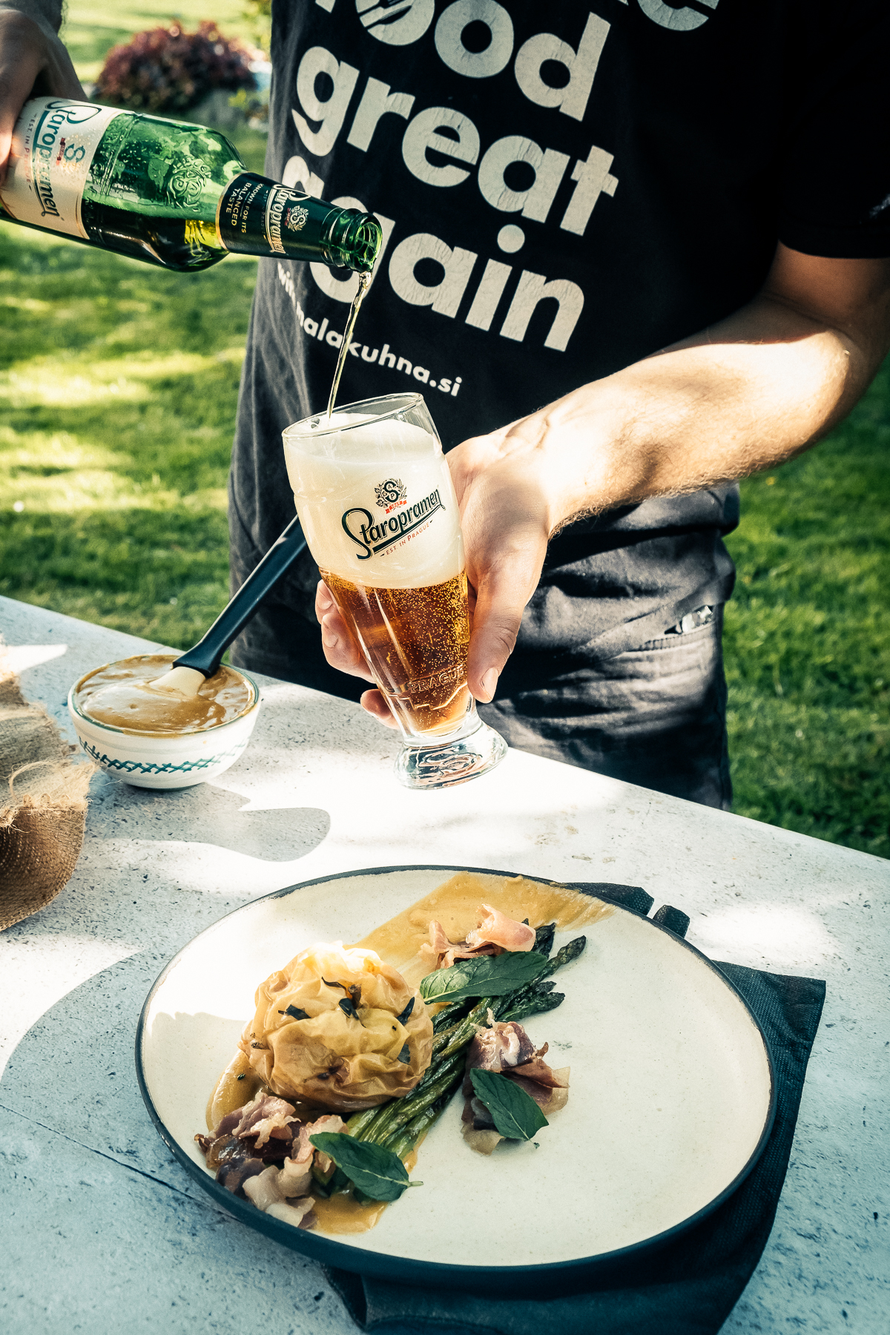
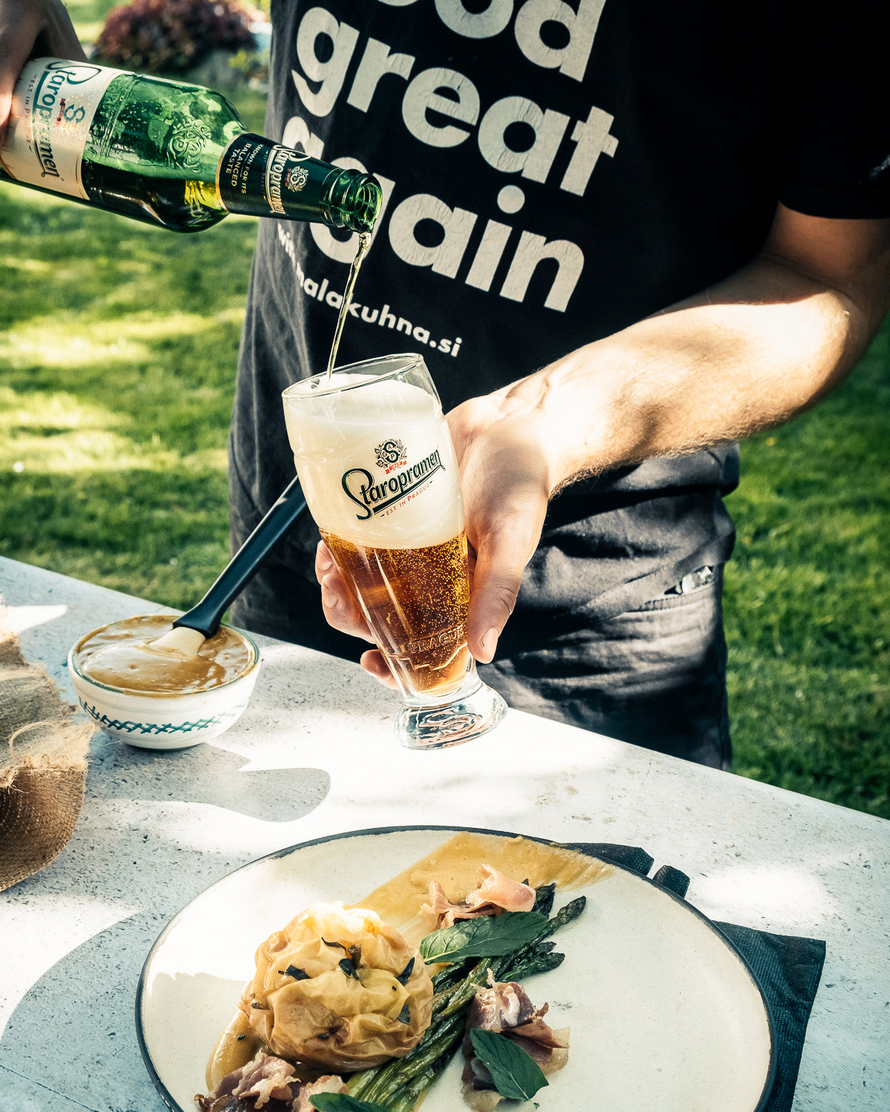
projekti thumbnaili

diff --git a/index.html b/index.html
@@ -366,24 +366,21 @@
                     <div class="item-folio">
                             
                         <div class="item-folio__thumb">
-                            <a href="images/portfolio/gallery/g-shutterbug.jpg" class="thumb-link" title="Shutterbug" data-size="1050x700">
-                                <img src="images/portfolio/lady-shutterbug.jpg" 
-                                     srcset="images/portfolio/lady-shutterbug.jpg 1x, images/portfolio/lady-shutterbug@2x.jpg 2x" alt="">
+                            <a href="images/portfolio/gallery/oster-1.jpg" class="thumb-link" title="Oster rob" data-size="1050x700">
+                                <img src="images/portfolio/oster-rob.jpg" 
+                                     srcset="images/portfolio/oster-rob.jpg 1x, images/portfolio/oster-rob@2x.jpg 2x"S alt="">
                             </a>
                         </div>
 
                         <div class="item-folio__text">
                             <h3 class="item-folio__title">
-                                Shutterbug
+                                Oster Rob / Sharpedge
                             </h3>
                             <p class="item-folio__cat">
-                                Branding
+                                Produktna fotografija, unboxing video, oglasni video
                             </p>
                         </div>
 
-                        <a href="https://www.behance.net/" class="item-folio__project-link" title="Project link">
-                            <i class="icon-link"></i>
-                        </a>
 
                         <div class="item-folio__caption">
                             <p>Vero molestiae sed aut natus excepturi. Et tempora numquam. Temporibus iusto quo.Unde dolorem corrupti neque nisi.</p>
@@ -396,9 +393,9 @@
                     <div class="item-folio">
                             
                         <div class="item-folio__thumb">
-                            <a href="images/portfolio/gallery/g-woodcraft.jpg" class="thumb-link" title="Woodcraft" data-size="1050x700">
+                            <a href="images/portfolio/gallery/staropramen-1.jpg" class="thumb-link" title="Staropramen" data-size="1200x1800">
                                 <img src="images/portfolio/staropramen.jpg" 
-                                     srcset="images/portfolio/staropramen.jpg, images/portfolio/staropramen.jpg 2x" alt="">
+                                     srcset="images/portfolio/staropramen.jpg 1x, images/portfolio/staropramen@2x.jpg 2x" alt="">
                             </a>
                         </div>
 
@@ -411,9 +408,6 @@
                             </p>
                         </div>
 
-                        <a href="https://www.behance.net/" class="item-folio__project-link" title="Project link">
-                            <i class="icon-link"></i>
-                        </a>
 
                         <div class="item-folio__caption">
                             <p>Vero molestiae sed aut natus excepturi. Et tempora numquam. Temporibus iusto quo.Unde dolorem corrupti neque nisi.</p>
@@ -426,24 +420,20 @@
                     <div class="item-folio">
                             
                         <div class="item-folio__thumb">
-                            <a href="images/portfolio/gallery/g-beetle.jpg" class="thumb-link" title="The Beetle Car" data-size="1050x700">
-                                <img src="images/portfolio/the-beetle.jpg"
-                                     srcset="images/portfolio/the-beetle.jpg 1x, images/portfolio/the-beetle@2x.jpg 2x" alt="">
+                            <a href="https://youtu.be/YmPqp-8yoaM" class="thumb-link" title="Šunkarna Kodila" target="_blank" data-size="1920x1080">
+                                <img src="images/portfolio/kodila.jpg"
+                                     srcset="images/portfolio/kodila.jpg 1x, images/portfolio/kodila.jpg 2x" alt="">
                             </a>
                         </div>
 
                         <div class="item-folio__text">
                             <h3 class="item-folio__title">
-                                The Beetle
+                                Velika noč - Šunkarna Kodila
                             </h3>
                             <p class="item-folio__cat">
-                                Web Development
+                                Video produkcija
                             </p>
                         </div>
-
-                        <a href="https://www.behance.net/" class="item-folio__project-link" title="Project link">
-                            <i class="icon-link"></i>
-                        </a>
 
                         <div class="item-folio__caption">
                             <p>Vero molestiae sed aut natus excepturi. Et tempora numquam. Temporibus iusto quo.Unde dolorem corrupti neque nisi.</p>
@@ -456,24 +446,21 @@
                     <div class="item-folio">
                             
                         <div class="item-folio__thumb">
-                            <a href="images/portfolio/gallery/g-salad.jpg" class="thumb-link" title="Grow Green" data-size="1050x700">
-                                <img src="images/portfolio/salad.jpg" 
-                                     srcset="images/portfolio/salad.jpg 1x, images/portfolio/salad@2x.jpg 2x" alt="">
+                            <a href="images/portfolio/komel.jpg" class="thumb-link" title="Grow Green" data-size="1200x1200">
+                                <img src="images/portfolio/komel.jpg" 
+                                     srcset="images/portfolio/komel.jpg 1x, images/portfolio/komel.jpg 2x" alt="">
                             </a>
                         </div>
 
                         <div class="item-folio__text">
                             <h3 class="item-folio__title">
-                                Salad
+                                Burja - Komel
                             </h3>
                             <p class="item-folio__cat">
-                                Branding
+                                Video produkcija
                             </p>
                         </div>
 
-                        <a href="https://www.behance.net/" class="item-folio__project-link" title="Project link">
-                            <i class="icon-link"></i>
-                        </a>
 
                         <div class="item-folio__caption">
                             <p>Vero molestiae sed aut natus excepturi. Et tempora numquam. Temporibus iusto quo.Unde dolorem corrupti neque nisi.</p>
@@ -486,24 +473,21 @@
                     <div class="item-folio">
                             
                         <div class="item-folio__thumb">
-                            <a href="images/portfolio/gallery/g-lamp.jpg" class="thumb-link" title="Guitarist" data-size="1050x700">
-                                <img src="images/portfolio/lamp.jpg" 
-                                     srcset="images/portfolio/lamp.jpg 1x, images/portfolio/lamp@2x.jpg 2x" alt="">
+                            <a href="images/portfolio/lust.jpg" class="thumb-link" title="Guitarist" data-size="1200x1500">
+                                <img src="images/portfolio/rengeo.jpg" 
+                                     srcset="images/portfolio/lust.jpg 1x, images/portfolio/lust.jpg 2x" alt="">
                             </a>
                         </div>
 
                         <div class="item-folio__text">
                             <h3 class="item-folio__title">
-                                Lamp
+                                Lušt paradajz
                             </h3>
                             <p class="item-folio__cat">
-                                Web Design
+                                Video kuharski recept
                             </p>
                         </div>
 
-                        <a href="https://www.behance.net/" class="item-folio__project-link" title="Project link">
-                            <i class="icon-link"></i>
-                        </a>
 
                         <div class="item-folio__caption">
                             <p>Vero molestiae sed aut natus excepturi. Et tempora numquam. Temporibus iusto quo.Unde dolorem corrupti neque nisi.</p>
@@ -516,18 +500,18 @@
                     <div class="item-folio">
                             
                         <div class="item-folio__thumb">
-                            <a href="images/portfolio/gallery/g-fuji.jpg" class="thumb-link" title="Palmeira" data-size="1050x700">
-                                <img src="images/portfolio/fuji.jpg"
-                                     srcset="images/portfolio/fuji.jpg 1x, images/portfolio/fuji@2x.jpg 2x" alt="">
+                            <a href="images/portfolio/rengeo.jpg" class="thumb-link" title="Palmeira" data-size="1200x1200">
+                                <img src="images/portfolio/rengeo.jpg"
+                                     srcset="images/portfolio/rengeo.jpg 1x, images/portfolio/rengeo.jpg 2x" alt="">
                             </a>
                         </div>
 
                         <div class="item-folio__text">
                             <h3 class="item-folio__title">
-                                Fuji
+                                Ekološka kmetija Rengeo
                             </h3>
                             <p class="item-folio__cat">
-                                Web Design
+                                Urejanje socialnih omrežij, fotografija
                             </p>
                         </div>
 
